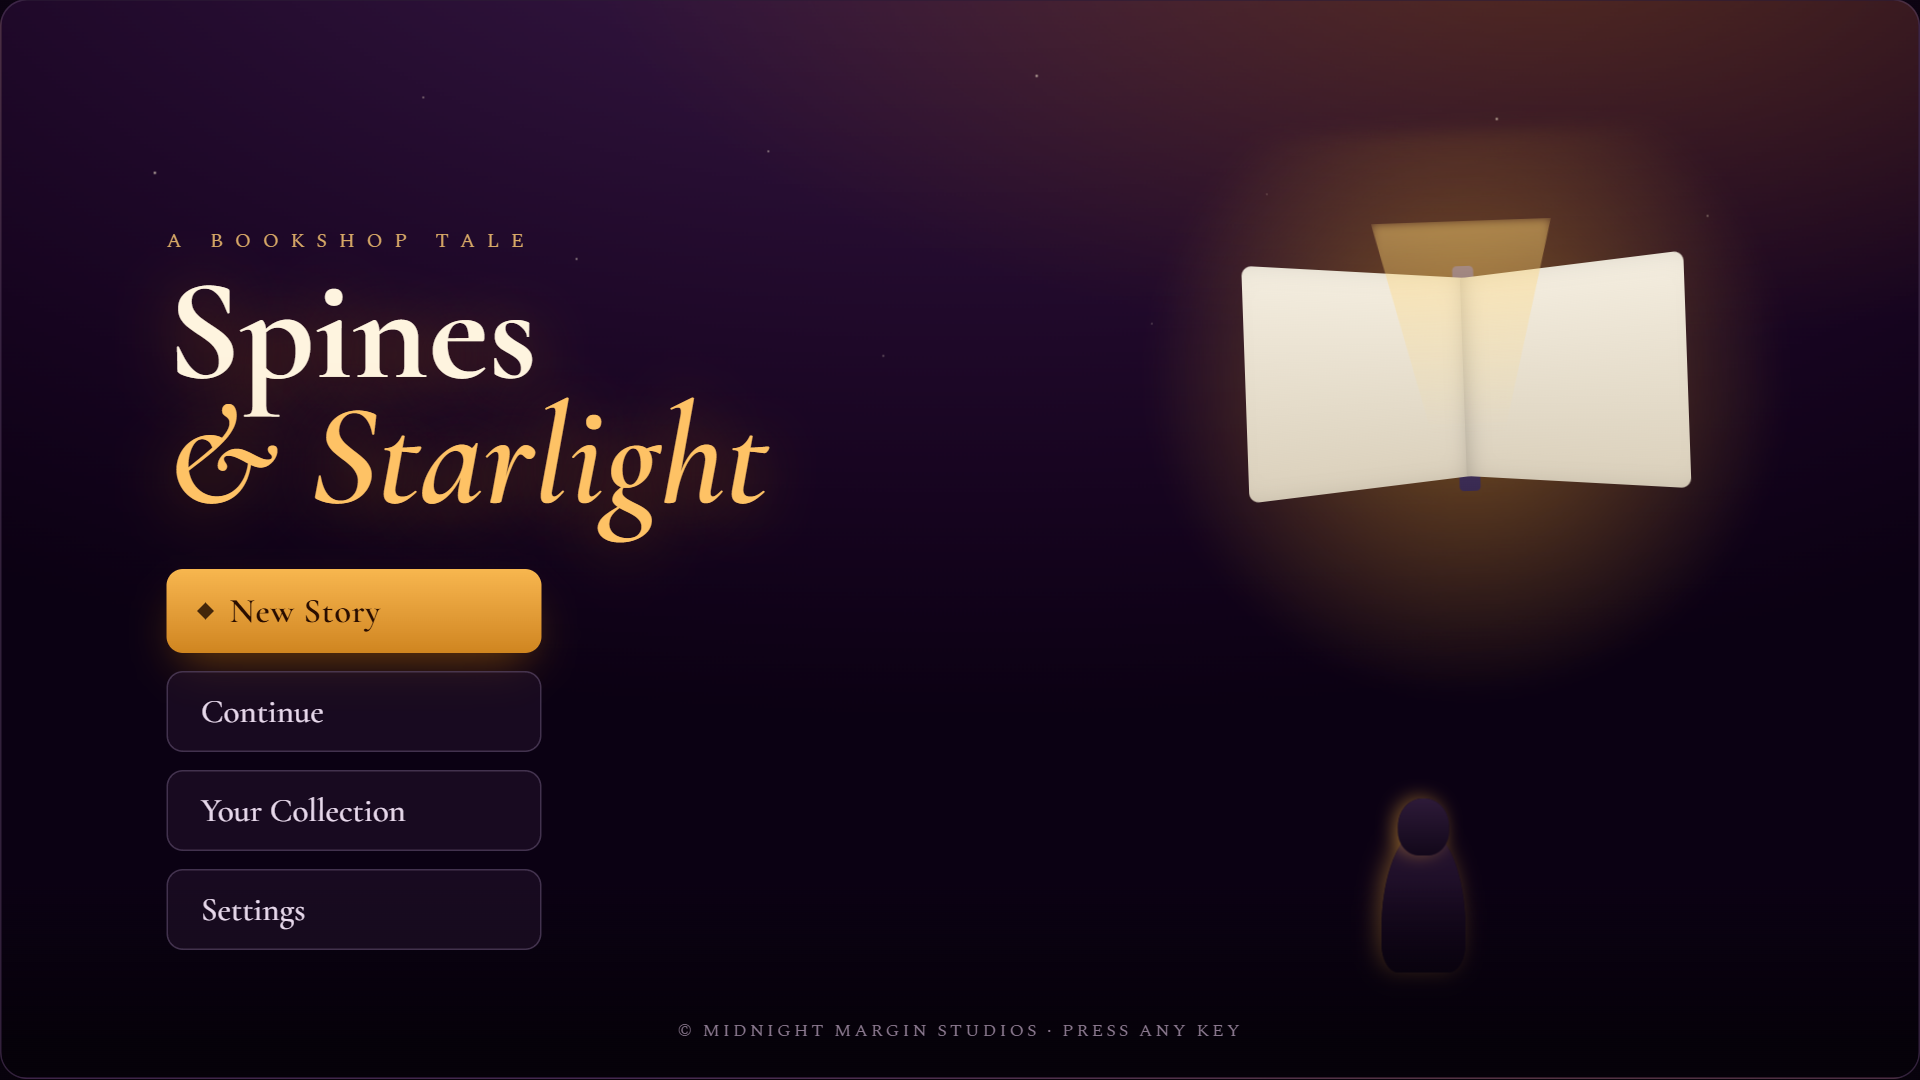
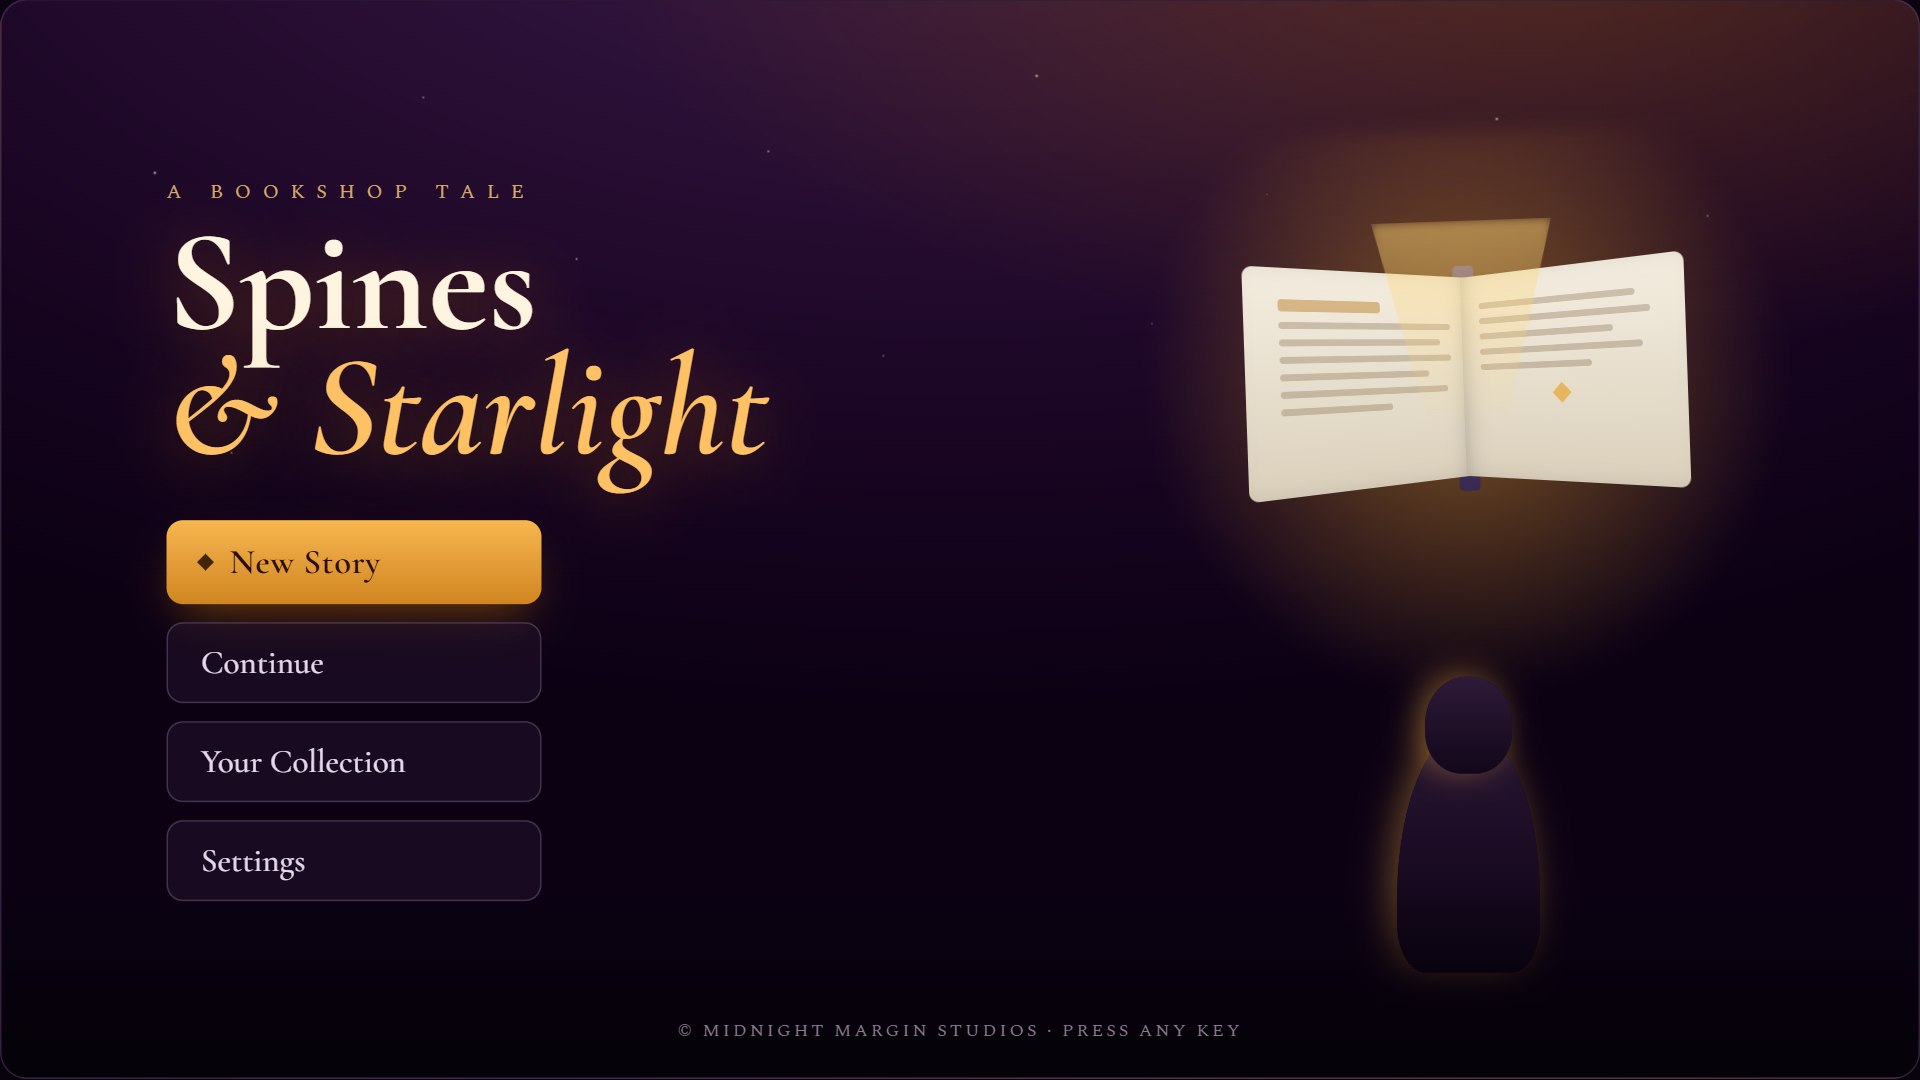
docs: refine the title screen composition

diff --git a/docs/spines-and-starlight/screen-01-title.md b/docs/spines-and-starlight/screen-01-title.md
@@ -47,13 +47,17 @@ open book) and offers the start menu. First interactive frame after boot.
 | 5 | **Floating open book** | top 190, right 150; 300×230 | `fl` float (dy −16↔0 over 420 frames). Sub-parts below |
 | 5a | ↳ glow halo | inset −90 | Gold radial `glow` behind the book |
 | 5b | ↳ spine | center, 14×150 | Violet vertical gradient, rounded |
-| 5c | ↳ pages ×2 | 150×132 each | Cream gradient, `perspective rotateY ±34°` → in pygame fake with a trapezoid (4-point polygon) per page |
+| 5c | ↳ pages ×2 | 150×132 each | Cream gradient, `perspective rotateY ±34°` → in pygame fake with a trapezoid (4-point polygon) per page. Each page carries faux text: a gilded heading line (`GOLD`, ~7px) plus several thin brown body lines (`rgba(120,92,58,.3)`, ~4px, varied widths), and a small gold ◆ diamond on the right page — draw as short rounded bars, sheared to match the page's perspective |
 | 5d | ↳ light beam | top −30, 120×200 | Gold triangular gradient, `clip-path` cone → a translucent polygon |
-| 6 | **Reader silhouette** | bottom 70, right 300; 60×150 | Two plum blobs (body 56×96 + head 34×38), gold rim-light `glow` on the left edge |
+| 6 | **Reader silhouette** | bottom 70, ~102×255 (60×150 base × 1.7, grown from bottom-center) | Two plum blobs (body 56×96 + head 34×38 at base scale), gold rim-light `glow` on the left edge. Horizontally centered under the floating book (book center ≈ x 980); enlarged to fill the space between book and footer |
 | 7 | **Bottom vignette** | bottom, full width, 130 tall | Gradient transparent→`NIGHT_BOTTOM`, grounds the scene |
-| 8 | **Eyebrow** | left 110, top ~150 | "A BOOKSHOP TALE" — tracked 8px, 13, `EYEBROW_GOLD` (use `render_tracked`) |
+| 8 | **Eyebrow** | left 110, top of group | "A BOOKSHOP TALE" — tracked 8px, 13, `EYEBROW_GOLD` (use `render_tracked`). First item of the left group |
 | 9 | **Hero title** | left 110, below eyebrow | "Spines" (line 1) + "& Starlight" (line 2, italic, `GOLD_ITALIC`). Cormorant 700, 96, `CREAM`, gold text-glow. Two blits |
 | 10 | **Menu** | left 110, top ~+34 below title; width 250, gap 12 | 4 buttons, see §4 |
+
+> **Left group (eyebrow + hero title + menu)** is one block, left-aligned at
+> x 110 and **vertically centered** in the 720 frame (its combined height
+> centered on y 360). Position the group as a unit, not each row independently.
 | 11 | **Footer** | bottom 22, centered | "© MIDNIGHT MARGIN STUDIOS · PRESS ANY KEY" — tracked 2px, 12, `TEXT_FAINT` |
 
 ## 4. Menu